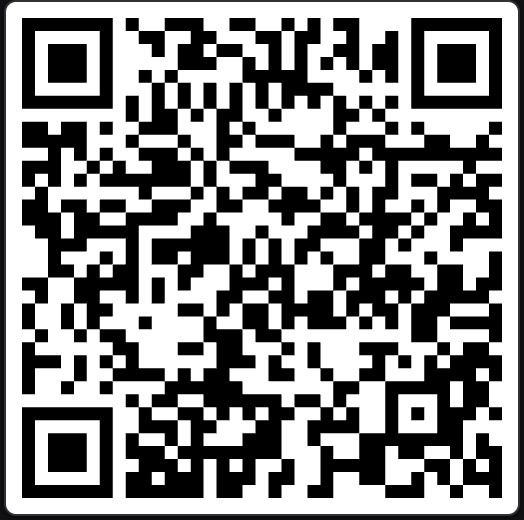
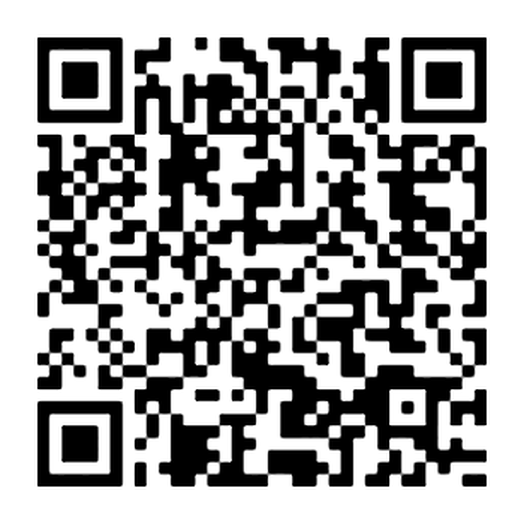
Actualizar enlace oficial de descarga Expo y nuevo código QR

diff --git a/index.html b/index.html
@@ -67,7 +67,7 @@
 
     <div class="nav-actions">
       <!-- Botón de acción Descargar APK -->
-      <a href="https://expo.dev/accounts/yesikita/projects/Yachay/builds/36d24911-91cf-407d-b96d-d86005729724" class="btn-nav-action" target="_blank" rel="noopener noreferrer">
+      <a href="https://expo.dev/accounts/knives123/projects/Yachay/builds/04d53f93-0c55-490d-af9e-b0d8c901c4da" class="btn-nav-action" target="_blank" rel="noopener noreferrer">
         <svg width="16" height="16" fill="none" stroke="currentColor" stroke-width="2.2" viewBox="0 0 24 24">
           <path d="M21 15v4a2 2 0 01-2 2H5a2 2 0 01-2-2v-4M7 10l5 5 5-5M12 15V3"/>
         </svg>
@@ -115,7 +115,7 @@
         </p>
 
         <div class="hero-buttons-row">
-          <a href="https://expo.dev/accounts/yesikita/projects/Yachay/builds/36d24911-91cf-407d-b96d-d86005729724" class="btn-play-store" target="_blank" rel="noopener noreferrer">
+          <a href="https://expo.dev/accounts/knives123/projects/Yachay/builds/04d53f93-0c55-490d-af9e-b0d8c901c4da" class="btn-play-store" target="_blank" rel="noopener noreferrer">
             <svg width="20" height="20" fill="none" stroke="currentColor" stroke-width="2.2" viewBox="0 0 24 24">
               <path d="M21 15v4a2 2 0 01-2 2H5a2 2 0 01-2-2v-4M7 10l5 5 5-5M12 15V3"/>
             </svg>
@@ -587,7 +587,7 @@
         <p class="card-desc">
           Descarga el archivo APK directamente en tu dispositivo o navegador e instálalo de forma manual en segundos.
         </p>
-        <a href="https://expo.dev/accounts/yesikita/projects/Yachay/builds/36d24911-91cf-407d-b96d-d86005729724" class="download-btn" target="_blank" rel="noopener noreferrer">
+        <a href="https://expo.dev/accounts/knives123/projects/Yachay/builds/04d53f93-0c55-490d-af9e-b0d8c901c4da" class="download-btn" target="_blank" rel="noopener noreferrer">
           <svg width="20" height="20" fill="none" stroke="currentColor" stroke-width="2.2" viewBox="0 0 24 24">
             <path d="M21 15v4a2 2 0 01-2 2H5a2 2 0 01-2-2v-4M7 10l5 5 5-5M12 15V3"/>
           </svg>
@@ -598,7 +598,7 @@
       <!-- Opción 2: Escaneo de Código QR -->
       <div class="download-card">
         <div class="card-badge">Opción 2 · Escanear QR</div>
-        <a href="https://expo.dev/accounts/yesikita/projects/Yachay/builds/36d24911-91cf-407d-b96d-d86005729724" target="_blank" rel="noopener noreferrer" class="qr-preview-box" title="Haz clic o escanea para descargar">
+        <a href="https://expo.dev/accounts/knives123/projects/Yachay/builds/04d53f93-0c55-490d-af9e-b0d8c901c4da" target="_blank" rel="noopener noreferrer" class="qr-preview-box" title="Haz clic o escanea para descargar">
           <img src="img/qr_descarga_yachay.png" alt="Código QR para descargar Yachay" class="qr-code-img">
           <span class="qr-hint-tag">📱 Clic o Escanear</span>
         </a>
@@ -606,7 +606,7 @@
         <p class="card-desc">
           Apunta con la cámara de tu celular hacia el código QR para iniciar la descarga instantánea en tu móvil.
         </p>
-        <a href="https://expo.dev/accounts/yesikita/projects/Yachay/builds/36d24911-91cf-407d-b96d-d86005729724" class="qr-direct-link" target="_blank" rel="noopener noreferrer">
+        <a href="https://expo.dev/accounts/knives123/projects/Yachay/builds/04d53f93-0c55-490d-af9e-b0d8c901c4da" class="qr-direct-link" target="_blank" rel="noopener noreferrer">
           <span>Abrir link de descarga</span>
           <svg width="15" height="15" fill="none" stroke="currentColor" stroke-width="2.2" viewBox="0 0 24 24">
             <path d="M5 12h14M12 5l7 7-7 7"/>
@@ -627,7 +627,7 @@
 
     <div class="download-specs">
       <span>📱 Android 8.0 o superior</span>
-      <span>📦 Compilación EAS: 36d24911</span>
+      <span>📦 Compilación EAS: 04d53f93</span>
       <span>⚡ 100% Funcional Offline</span>
       <span>🔒 Instalación Segura APK</span>
     </div>

diff --git a/README.md b/README.md
@@ -35,9 +35,8 @@ Sitio web oficial, interactivo y moderno para la aplicación móvil **Yachay (Ap
    - Acordeón interactivo con dudas comunes sobre modo offline y costo.
 
 6. **Zona de Descarga & Enlaces**:
-   - Enlace directo a la APK para Android: [Descargar APK (EAS Build b9f80dee)](https://expo.dev/artifacts/eas/kzta1B8mKbXn5nofeuqu2mEuw7wEfuYee1VitR-qeeM.apk).
+   - Enlace oficial del build en Expo EAS: [Build 04d53f93 — @knives123/Yachay](https://expo.dev/accounts/knives123/projects/Yachay/builds/04d53f93-0c55-490d-af9e-b0d8c901c4da).
    - Código QR oficial para escaneo directo desde dispositivos móviles (`img/qr_descarga_yachay.png`).
-   - Enlace al build en Expo EAS: [Build b9f80dee — @yessyess/Yachay](https://expo.dev/accounts/yessyess/projects/Yachay/builds/b9f80dee-ba29-49cb-a5fc-4985d2315187).
    - Enlace al repositorio oficial en GitHub: [Yessyess22/Yachay-idiomas](https://github.com/Yessyess22/Yachay-idiomas.git).
 
 ---
